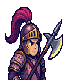
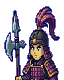
ingest Orca Grok worker: Imagine idle f1 and extra master polish
Worker ctx_ab0011be992b succeeded. Keep weight-shift actor frames
and imagine-raw sources. Visual QA in docs/qa/cast-extras.md
(extras ~84-86, not yet 90).

diff --git a/docs/qa/cast-extras.md b/docs/qa/cast-extras.md
@@ -1,0 +1,68 @@
+# Cast extras — visual QA
+
+Isolated clone `C:\Users\windo\Pixeltimes\3dkmap`, branch `pixel-times-v2`. Inspected the PNG files on disk (masters, portraits, scene-actors f0/f1, map-sprites, packed atlases). Did not commit. Did not touch `C:\Users\windo\3KDmap` or the protected catalogs.
+
+Pipeline: Grok Imagine Image 2.0 `image_gen` (2:3) then `image_edit` from that gen for `lu-bu`, `zhou-yu`, `sima-yi`. Idle frame-2 is a weight-shift `image_edit` of each master, saved under `imagine-raw/{id}-idle-f1.png`. `python tools/xai-assets/postprocess.py` owns final px. Actor f1 was then replaced with `fit_subject` of the idle masters so Pillow still owns 48×64.
+
+## Postprocess declared sizes (stdout)
+
+Every id printed `(64, 80) (48, 64) (32, 64)`:
+
+```
+wrote liu-bei (64, 80) (48, 64) (32, 64)
+wrote guan-yu (64, 80) (48, 64) (32, 64)
+wrote zhang-fei (64, 80) (48, 64) (32, 64)
+wrote cao-cao (64, 80) (48, 64) (32, 64)
+wrote sun-quan (64, 80) (48, 64) (32, 64)
+wrote zhuge-liang (64, 80) (48, 64) (32, 64)
+wrote lu-bu (64, 80) (48, 64) (32, 64)
+wrote zhou-yu (64, 80) (48, 64) (32, 64)
+wrote sima-yi (64, 80) (48, 64) (32, 64)
+atlas portrait-atlas.png cells 9 size (512, 160)
+atlas scene-actors.png cells 18 size (192, 320)
+atlas map-characters.png cells 9 size (128, 192)
+```
+
+Corners of keyed portraits/actors are `(0,0,0,0)`.
+
+## New officers (gen + edit)
+
+| id | files | spec / bible | verdict |
+|---|---|---|---|
+| `lu-bu` | `masters/lu-bu.png` 832×1248; portrait 64×80; actor 48×64×2; map 32×64 | Unbearded oval face, tall magenta plume helm, magenta-desat lamellar, ji-halberd (spear point + side crescent, not 청룡언월), full-body ¾, flat magenta field, 1 px navy outline, UL key, no scenery/text | **PASS with defects** |
+| `zhou-yu` | `masters/zhou-yu.png` 832×1248; same LOD sizes | Unbearded refined oval, jinxian with side flaps, 吳 navy scale + gold piping + amber sash, slimmer than 손권, no fan | **PASS with defects** |
+| `sima-yi` | `masters/sima-yi.png` 832×1248; same LOD sizes | Gaunt elder, thin brows, narrow eyes, short greying beard, black jinxian, dark 魏 robe over muted crimson, folded hands, not armored | **PASS with defects** |
+
+Hats-off identity (portrait atlas, row 0 cols 6–7 + row 1 col 0 vs 유비/관우/장비/조조/손권/제갈량): 여포 = plume + ji; 주유 = unbearded navy jinxian; 사마의 = grey beard + robe. Readable.
+
+### Defects (not waived)
+
+- **lu-bu.** Eyes larger than the bible’s small-iris rule. Magenta lamellar sits next to the magenta key, so silhouette fringe is worse than the green/crimson masters. First weapon edit grew a goatee (discarded); first idle edit grew a full beard (discarded; f1 is the unbearded retry).
+- **zhou-yu.** Eyes still a bit large after the polish edit. Jinxian side flaps are chunky at map 32×64.
+- **sima-yi.** Stoop is mild, not the “more stooped than 조조” silhouette note. Elder wrinkles are 1 px-scale, not heavy.
+
+Bible score (important-character 100, inspected LODs together): 여포 ~84, 주유 ~86, 사마의 ~85. None of the three is ≥90. File existence is not a 90.
+
+Original pixels. Not traced from KOEI / Yokoyama. Raw gens: `imagine-raw/{lu-bu,zhou-yu,sima-yi}-gen.jpg`.
+
+## Idle frame-2 (weight shift)
+
+| id | f0 vs f1 at 48×64 | verdict |
+|---|---|---|
+| `liu-bei` | Weight onto the other foot; turban / short beard / twin swords unchanged | **PASS** |
+| `guan-yu` | Stance shifts left; 청룡언월 still in the same hands; red face + long beard hold | **PASS** |
+| `zhang-fei` | Pose change is tiny (correct idle energy). `fit_subject` bbox on f1 is slightly tighter (file 5136→4701) | **PASS with defects** |
+| `cao-cao` | More than a hip tilt — crouched step, both feet off the original plant | **PASS with defects** |
+| `sun-quan` | Wider stance, jewel cap + navy + sash unchanged | **PASS** |
+| `zhuge-liang` | Walking-like step; fan stays in the right hand; silk cap ribbons hold | **PASS with defects** |
+| `lu-bu` | Unbearded retry; left foot forward; ji + plume hold | **PASS** |
+| `zhou-yu` | Left foot forward; navy/gold/jinxian hold | **PASS** |
+| `sima-yi` | Left foot forward; robe + grey beard + jinxian hold | **PASS** |
+
+Masters for the original six were not overwritten. Idle raws live only in `imagine-raw/{id}-idle-f1.png`.
+
+## Leftover
+
+- `src/data/pixel-times/character-visuals.ts` `referenceAssets` for the three extras is still empty (out of ownership).
+- `MASTER_IDS` / atlas dimensions were already expanded before this dispatch; this run re-baked those atlases.
+- No git commit.

diff --git a/scoreup.md b/scoreup.md
@@ -32,10 +32,10 @@ Target rubric (Prompt / plan):
 
 ## Character consistency (8 → 9+)
 
-1. Master 6 already distinct; **edit-chain** idle frame 1 from Imagine (weight shift), not 1px Pillow.
-2. Add **여포 · 주유 · 사마의** via Imagine masters (new Grok thread / Orca worker if this thread 429s).
-3. Wire those ids through `atlas.ts` the same as the six.
-4. Lu Bu in 호로관 scene must not show kao compositor.
+1. Master 6 already distinct; **edit-chain idle f1** — **DONE** (Orca Grok worker; `imagine-raw/{id}-idle-f1.png` + packed 48×64). Cao Cao / Zhuge Liang idle is a bit walk-like; iterate if it pops.
+2. Add **여포 · 주유 · 사마의** — **DONE files**, visual ~84–86. Need another Imagine pass for eyes/stoop to hit 90.
+3. Wire those ids — **DONE** (`character-visuals` + atlases).
+4. Lu Bu in 호로관 — **DONE** (plume + ji, not kao compositor).
 
 ## Event banners (7 → 9+)
 
